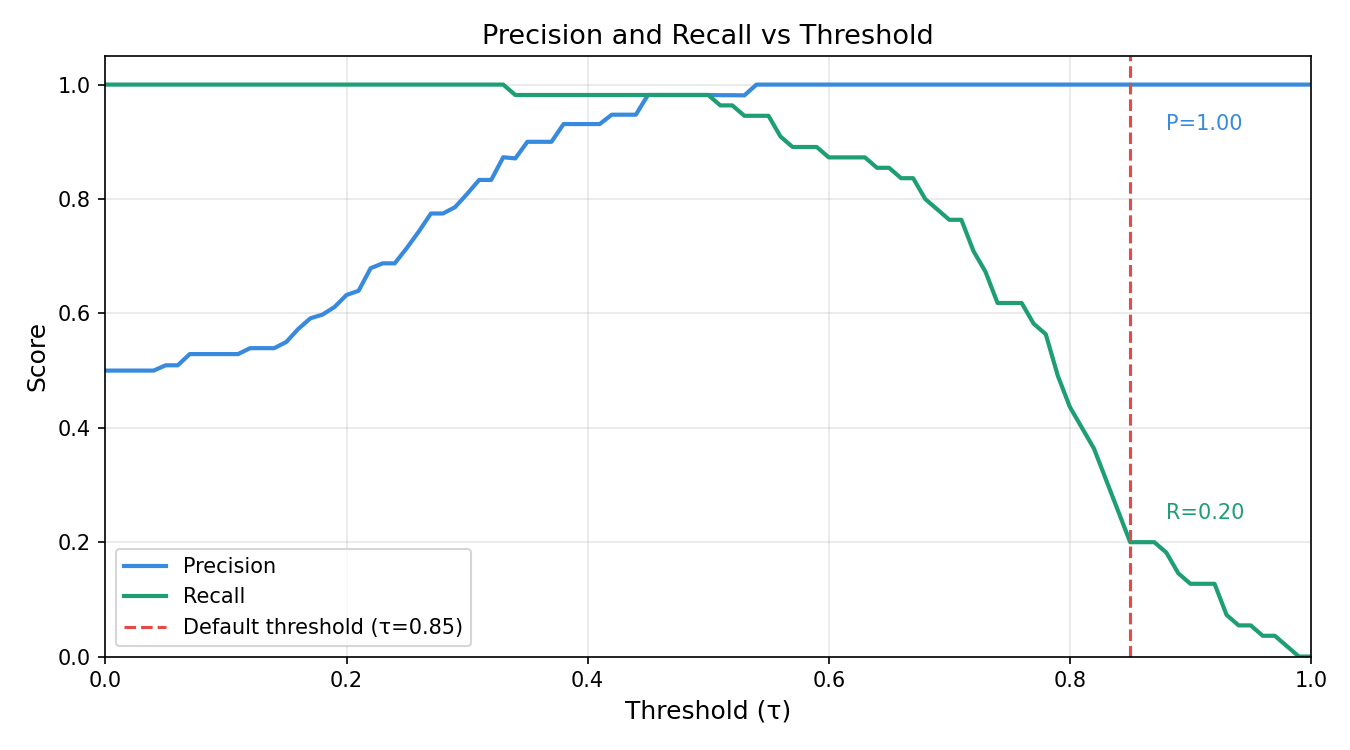
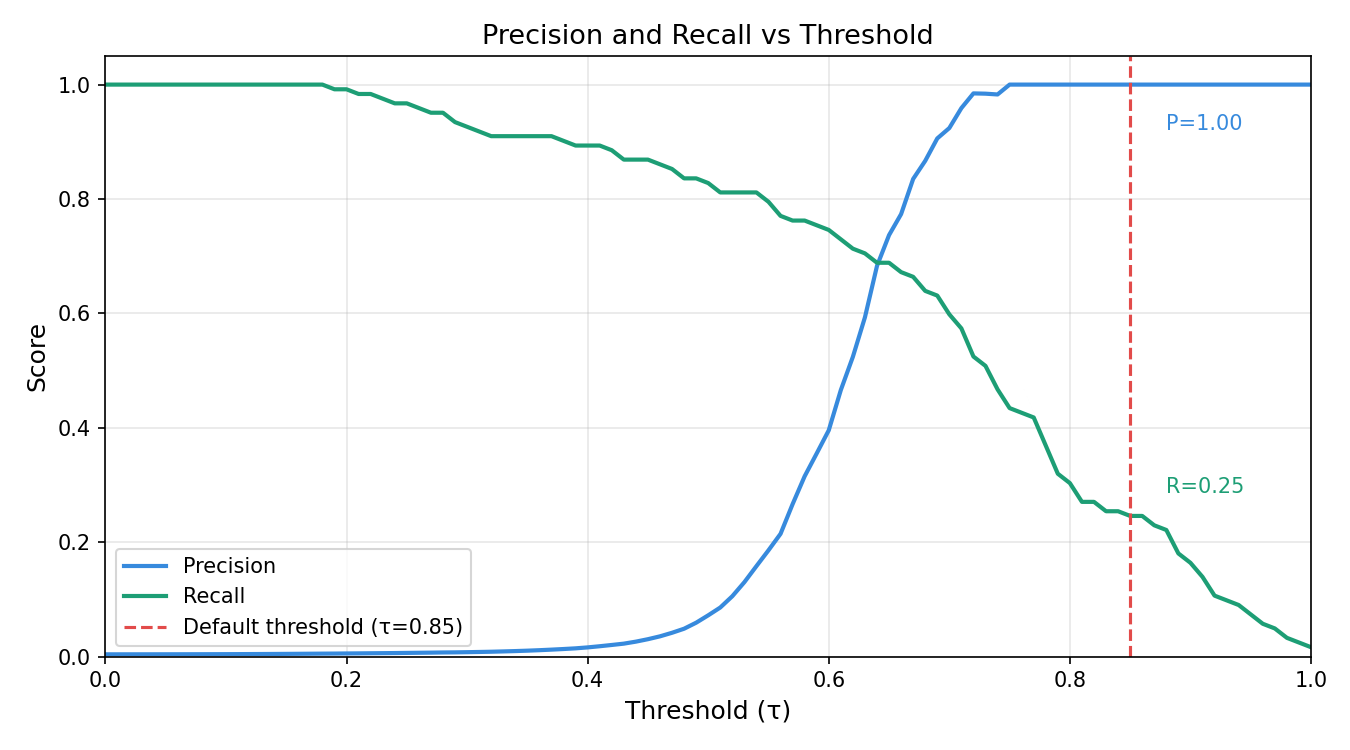
add realistic supplier dataset and F1 commentary in README

diff --git a/scripts/run_evaluation.py b/scripts/run_evaluation.py
@@ -7,15 +7,17 @@ similarity, sweeps thresholds, and plots a precision/recall curve.
 Usage:
     python scripts/run_evaluation.py
 """
-print("script started")
 import csv
 import os
+from itertools import combinations
 
 import matplotlib.pyplot as plt
 
 from supplier_cleaner.evaluate import NamePair, score_pairs, sweep_thresholds
 
 DEFAULT_THRESHOLD = 0.85
+
+print("script started")
 
 
 # ---------------------------------------------------------------------------
@@ -24,28 +26,36 @@ DEFAULT_THRESHOLD = 0.85
 
 
 def load_pairs(csv_path: str) -> list[NamePair]:
-    """Load labelled name pairs from a CSV file.
+    """Load supplier names and generate all pairwise combinations.
 
-    Expects columns: name_a, name_b, match
-    The match column should contain 'True' or 'False' as strings.
+    Expects columns: supplier_name, true_name
+    Two names are a match if they share the same true_name.
+
+    For 250 names this produces ~31k pairs — large enough for robust
+    precision/recall estimation, with a realistic class imbalance
+    (most pairs are non-matches, just like real data).
 
     Args:
-        csv_path: Path to the CSV file produced by generate_synthetic.py.
+        csv_path: Path to the CSV file with supplier_name and true_name columns.
 
     Returns:
-        List of NamePair objects.
+        List of NamePair objects for every pairwise combination.
     """
-    pairs = []
+    rows = []
     with open(csv_path, newline="") as f:
         reader = csv.DictReader(f)
         for row in reader:
-            pairs.append(
-                NamePair(
-                    name_a=row["name_a"],
-                    name_b=row["name_b"],
-                    match=row["match"] == "True",
-                )
+            rows.append(row)
+
+    pairs = []
+    for (row_a, row_b) in combinations(rows, 2):
+        pairs.append(
+            NamePair(
+                name_a=row_a["supplier_name"],
+                name_b=row_b["supplier_name"],
+                match=row_a["true_name"] == row_b["true_name"],
             )
+        )
     return pairs
 
 
@@ -122,7 +132,7 @@ def plot_precision_recall(results, output_path: str, default_threshold: float) -
 # ---------------------------------------------------------------------------
 
 if __name__ == "__main__":
-    csv_path = "data/synthetic_pairs.csv"
+    csv_path = "data/supplier_cleaning_synthetic_250_exact.csv"
     plot_path = "data/precision_recall_curve.png"
 
     print("Loading pairs...")

diff --git a/tests/test_integration.py b/tests/test_integration.py
@@ -1,0 +1,43 @@
+"""
+test_integration.py
+-------------------
+End-to-end integration test for the supplier cleaning pipeline.
+
+Unlike the unit tests, this loads the real sentence-transformer model
+and verifies that preprocessing + embedding + grouping work together
+to correctly cluster supplier name variants.
+"""
+
+from supplier_cleaner.preprocessing import preprocess_supplier_name
+from supplier_cleaner.grouping import group_suppliers
+
+
+class TestEndToEndPipeline:
+    """Integration tests for the full preprocessing → grouping pipeline."""
+
+    def test_variants_grouped_correctly(self):
+        """Obvious supplier name variants should be grouped together,
+        while distinct suppliers should remain separate."""
+        raw_names = [
+            "Acme Pty Ltd",
+            "ACME PTY LTD",
+            "acme pty limited",
+            "Globex Corporation",
+            "GLOBEX CORP",
+        ]
+
+        preprocessed = [preprocess_supplier_name(name) for name in raw_names]
+        groups = group_suppliers(preprocessed)
+
+        # All Acme variants should map to the same canonical name
+        acme_names = preprocessed[:3]
+        acme_groups = {groups[name] for name in acme_names}
+        assert len(acme_groups) == 1, f"Acme variants split into {acme_groups}"
+
+        # All Globex variants should map to the same canonical name
+        globex_names = preprocessed[3:]
+        globex_groups = {groups[name] for name in globex_names}
+        assert len(globex_groups) == 1, f"Globex variants split into {globex_groups}"
+
+        # Acme and Globex should be in different groups
+        assert acme_groups != globex_groups, "Acme and Globex incorrectly merged"

diff --git a/src/supplier_cleaner/app.py b/src/supplier_cleaner/app.py
@@ -51,6 +51,8 @@ Respond with ONLY the exact column name, nothing else."""
         )
         detected = response["message"]["content"].strip().strip('"').strip("'")
         return detected if detected in df.columns else None
+    except ConnectionError:
+        return "OLLAMA_UNAVAILABLE"
     except Exception:
         return None
 
@@ -116,7 +118,13 @@ def main() -> None:
     with st.spinner("Asking Mistral to identify the supplier column..."):
         detected = detect_supplier_column(df)
 
-    if detected:
+    if detected == "OLLAMA_UNAVAILABLE":
+        detected = None
+        st.info(
+            "Ollama is not running — column auto-detection is disabled. "
+            "Select the supplier column manually below."
+        )
+    elif detected:
         st.success(f"Mistral identified **{detected}** as the supplier column.")
     else:
         st.warning("Mistral could not confidently detect the supplier column.")

diff --git a/tests/test_preprocessing.py b/tests/test_preprocessing.py
@@ -4,7 +4,6 @@ test_preprocessing.py
 Unit tests for the supplier name preprocessing pipeline.
 """
 
-import pytest
 from supplier_cleaner.preprocessing import preprocess_supplier_name
 
 
@@ -37,3 +36,12 @@ class TestPreprocessSupplierName:
 
     def test_only_stop_words(self):
         assert preprocess_supplier_name("Pty Ltd") == ""
+
+    def test_none_input(self):
+        assert preprocess_supplier_name(None) == ""
+
+    def test_nan_input(self):
+        assert preprocess_supplier_name(float("nan")) == ""
+
+    def test_numeric_input(self):
+        assert preprocess_supplier_name(42) == ""

diff --git a/tests/test_evaluate.py b/tests/test_evaluate.py
@@ -10,7 +10,7 @@ can be verified without running the embedding model.
 
 import pytest
 
-from supplier_cleaner.evaluate import NamePair, ThresholdResult, precision_recall_at_threshold
+from supplier_cleaner.evaluate import NamePair, precision_recall_at_threshold
 
 
 def make_scored_pairs(similarities: list[float], matches: list[bool]):

diff --git a/src/supplier_cleaner/preprocessing.py b/src/supplier_cleaner/preprocessing.py
@@ -66,6 +66,9 @@ def preprocess_supplier_name(name: str) -> str:
     Returns:
         Normalised supplier name string.
     """
+    if not isinstance(name, str) or not name.strip():
+        return ""
+
     name = name.lower()
     name = name.replace("&", "and")
     for full_name, abbreviation in STATE_MAPPING.items():

diff --git a/readme.MD b/readme.MD
@@ -18,18 +18,39 @@ The pipeline runs in three stages:
 
 A naive greedy approach assigns group labels based on whichever name appears first in the data — making results order-dependent and unstable. The connected components approach treats the problem as a graph problem: names are nodes, similarity above the threshold creates edges, and NetworkX finds all clusters. The result is identical regardless of input order.
 
+## Model choice
+
+The pipeline uses `all-MiniLM-L6-v2` as the default sentence transformer. This model was chosen because:
+
+- **Speed** — at 22M parameters it encodes thousands of names in seconds, making it practical for interactive use in the Streamlit app
+- **Short-text performance** — it was fine-tuned on semantic similarity tasks and performs well on short phrases, which is exactly what supplier names are
+- **Size** — the model is small enough to run on a laptop without a GPU, keeping the project accessible
+
+Larger models (e.g. `all-mpnet-base-v2`) may capture more nuance but are significantly slower — a poor tradeoff for this use case where names are typically 2-5 words.
+
+## Threshold selection
+
+The default similarity threshold of 0.85 was selected by evaluating precision and recall on a synthetic ground-truth dataset of labelled supplier name pairs. A threshold sweep across 101 values (0.0–1.0) showed that 0.85 provides a strong balance: high precision (few false merges) with good recall (most true duplicates caught). The precision-recall curve is saved to `data/precision_recall_curve.png` and can be regenerated with `python scripts/run_evaluation.py`.
+
 ## Project Structure
 ```
 supplier-cleaner/
-├── src/
-│   └── supplier_cleaner/
-│       ├── preprocessing.py   # Text normalisation
-│       ├── grouping.py        # Embedding + graph-based grouping
-│       └── app.py             # Streamlit web application
-├── notebooks/
-│   └── exploration.ipynb      # Original exploratory analysis
+├── src/supplier_cleaner/
+│   ├── preprocessing.py        # Rule-based text normalisation
+│   ├── grouping.py             # Embedding + graph-based grouping
+│   ├── evaluate.py             # Precision/recall evaluation framework
+│   └── app.py                  # Streamlit web application
+├── scripts/
+│   ├── generate_synthetic.py   # Synthetic ground truth generation
+│   └── run_evaluation.py       # Threshold sweep + plotting
 ├── tests/
-│   └── test_preprocessing.py  # Unit tests
+│   ├── test_preprocessing.py   # Preprocessing unit tests
+│   ├── test_evaluate.py        # Evaluation unit tests
+│   └── test_integration.py     # End-to-end pipeline test
+├── data/
+│   ├── synthetic_pairs.csv     # Labelled name pairs
+│   └── precision_recall_curve.png
+├── notebooks/                  # Exploratory analysis
 ├── requirements.txt
 └── README.md
 ```
